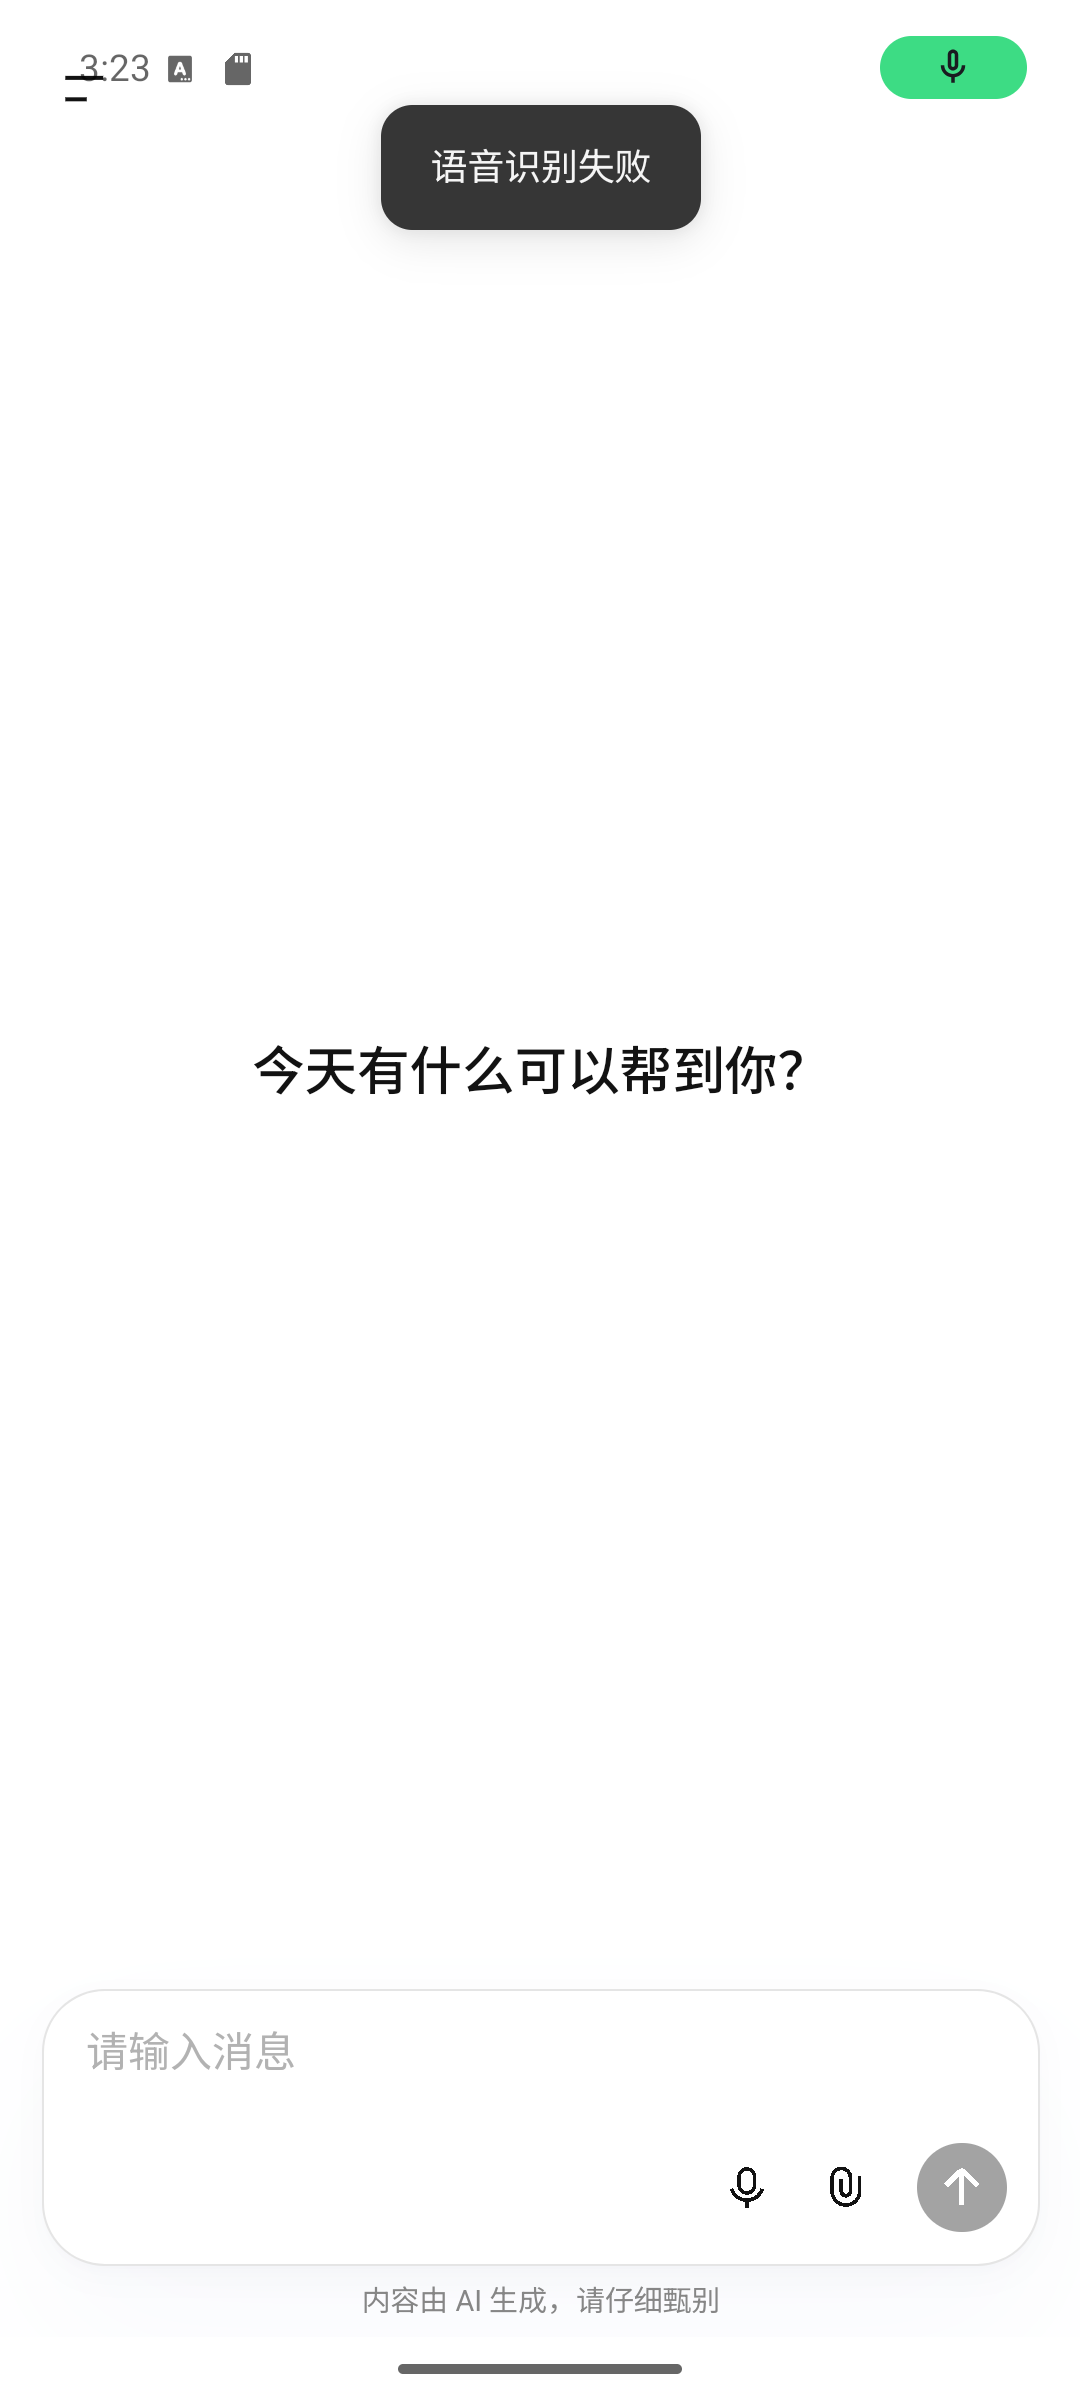
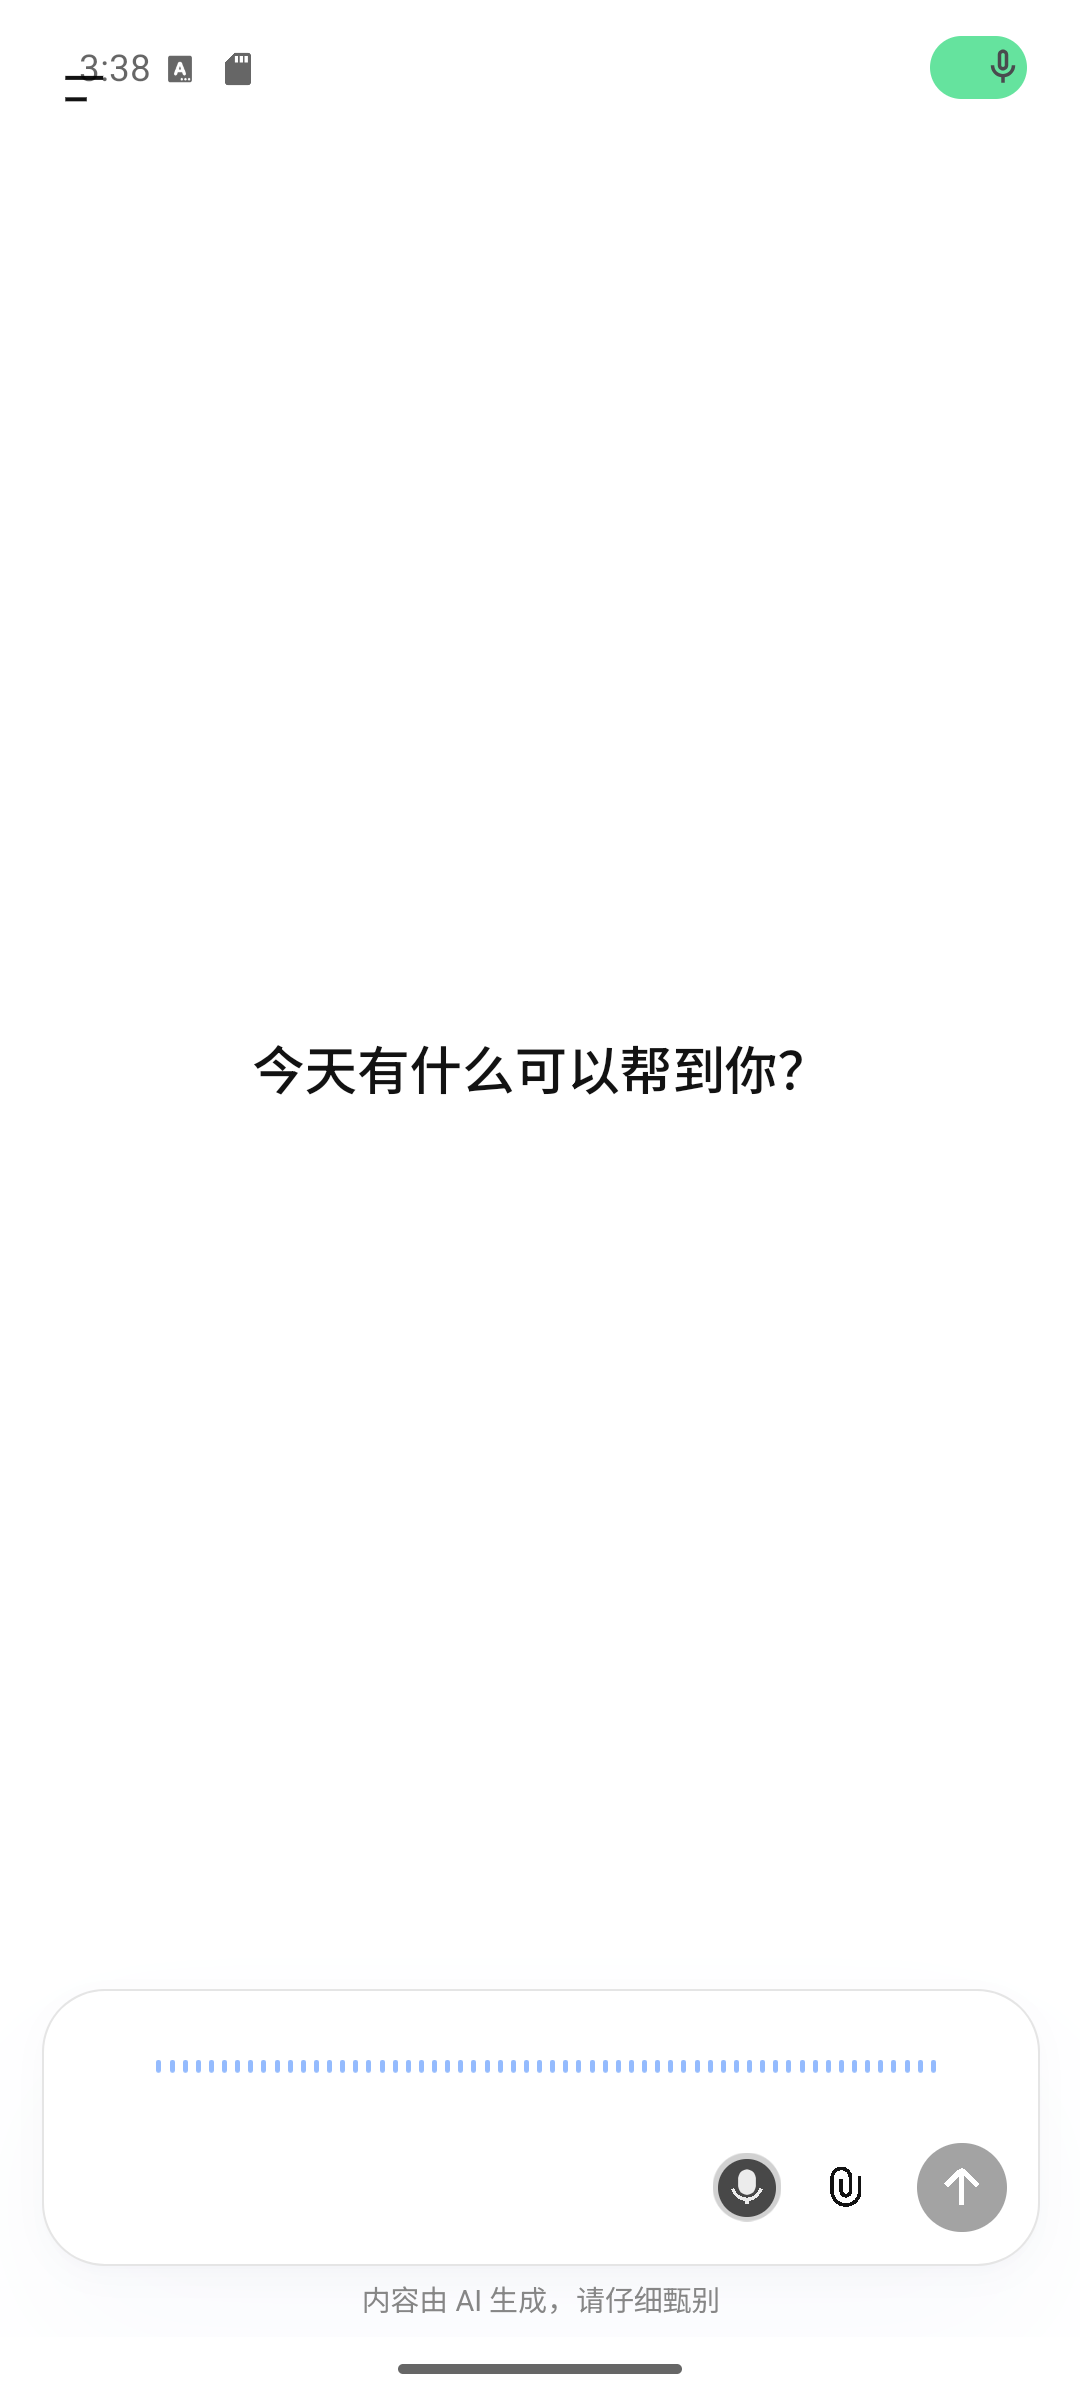
media: the generation demo, sped up; the voice shot is the listening state
The GIF goes back to what it was -- a question and the answer being generated --
and is played at 2x: twenty seconds of emulator time become ten. Recording a fresh
take with the generation in it is what was asked for, and it is what the emulator
would not give: screenrecord stops between nine and fifteen seconds, the share-in
hook fills the composer a few seconds later than the send tap expects, and the two
together never lined up a complete reply. Re-timing the recording that did capture
the flow gets the same content at the speed asked for.

The voice screenshot is taken while listening, before the recognition failure toast
appears. The device has a recogniser (com.google.android.as), but the bridge asks it
for an offline model and this one has none, so the honest end state on an emulator
is a failure notice -- which does not belong in a screenshot illustrating the
feature. The listening state shows the microphone capturing, and the README already
says the transcription only appears on a device with an offline recogniser.

diff --git a/README.md b/README.md
@@ -26,9 +26,9 @@
 | --- | --- |
 | ![新对话](docs/shots/web-empty.png) | ![一轮回答](docs/shots/web-chat.png) |
 
-![对话页、模型页与语音入口的一次走动](docs/demo-web.gif)
+![从输入到回答的一轮，2× 速度](docs/demo-web.gif)
 
-<sub>gif 以 2× 速度播放：对话页 → 模型页（滚到多模态那几档）→ 返回 → 语音入口。</sub>
+<sub>gif 以 2× 速度播放；这是模拟器上的实测，真机快得多。</sub>
 
 这套界面来自 DeepSeek 开源的 [chat-demo](https://github.com/deepseek-ai/chat-demo)（MIT），
 在 `web/` 里改造为全本地：回复由设备上已经加载的 LiteRT-LM 引擎生成，前端不发一个网络请求。
